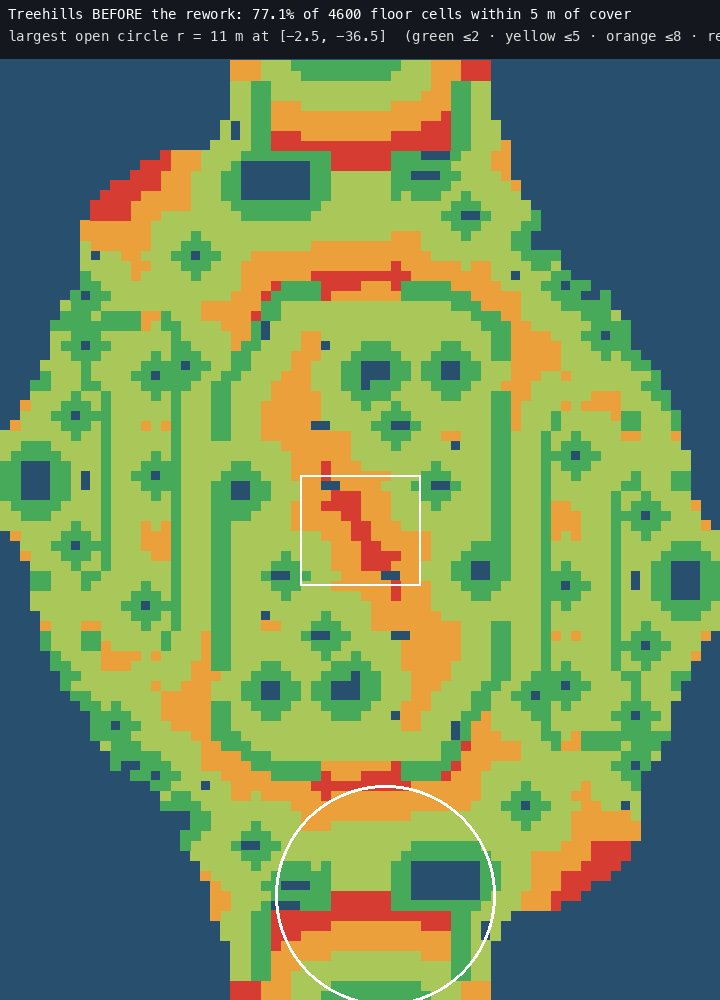
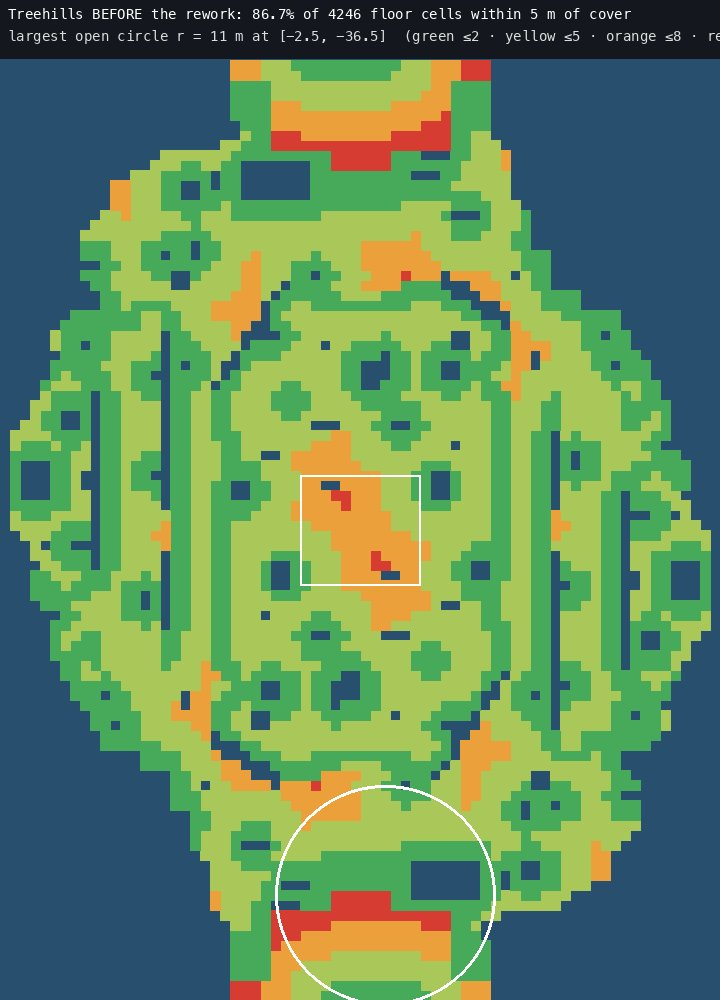
Eco-Forest Treehills: cover maps refined (floor = highest walkable top, thin walls count, the canopy roof ignored) — before 86.7 % within 5 m / largest open circle 11 m, after the rework 99.9 % / 5 m, Halyard 94.2 % / 17 m

Changed region(s): [[0.0, 0.062, 1.0, 0.992], [0.3361, 0.0, 0.3972, 0.031], [0.4583, 0.0, 0.4889, 0.031]]

diff --git a/tools/botlab/jobs/new-stages/out/treehills/cover-map.js b/tools/botlab/jobs/new-stages/out/treehills/cover-map.js
@@ -8,7 +8,7 @@
 (async () => {
   const out = []; const R = (name, ok, info) => out.push({ name, ok: !!ok, info });
   const L = __G.level, B = L.bounds, THREE = await import('three');
-  const skip = window.__openSkip || (L.layout?.id === 'treehills' ? [[-6, 6, -5.5, 5.5]] : []);
+  const skip = window.__openSkip || (L.layout?.id === 'treehills' ? [[-7.4, 7.4, -6.8, 6.8]] : []);   // (the plaza top + its zone)
   const x0 = Math.floor(B.minX), z0 = Math.floor(B.minZ), nx = Math.ceil(B.maxX) - x0, nz = Math.ceil(B.maxZ) - z0;
   const ids = [], P = new THREE.Vector3();
   // kerbs and copings along the edges are the ground's trim (a lip of 0.14–0.3 m), not a level of their own
@@ -33,8 +33,9 @@
   };
   const solidAt = (x, y, z) => {
     P.set(x, y, z);
-    // (within 0.2 m of the sample: thin walls and posts between lattice points are found)
-    for (const id of L.queryBlocks(x - 0.21, z - 0.21, x + 0.21, z + 0.21, ids)) { const b = L.blocks[id]; if (b.solid && !b.dynamic && !b.rail && L.pointInBlock(b, P, 0.2)) return true; }
+    // (within 0.15 m of the sample, so thin walls between lattice points are found; posts under 0.6 m across — lamps,
+    // bollards, pylons' bare shafts — aren't cover)
+    for (const id of L.queryBlocks(x - 0.16, z - 0.16, x + 0.16, z + 0.16, ids)) { const b = L.blocks[id]; if (b.solid && !b.dynamic && !b.rail && Math.max(b.half.x, b.half.z) >= 0.3 && L.pointInBlock(b, P, 0.15)) return true; }
     return false;
   };
   const fy = new Float32Array(nx * nz).fill(NaN);
